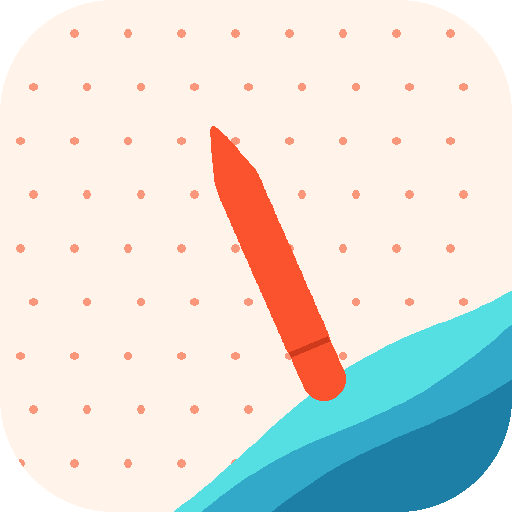
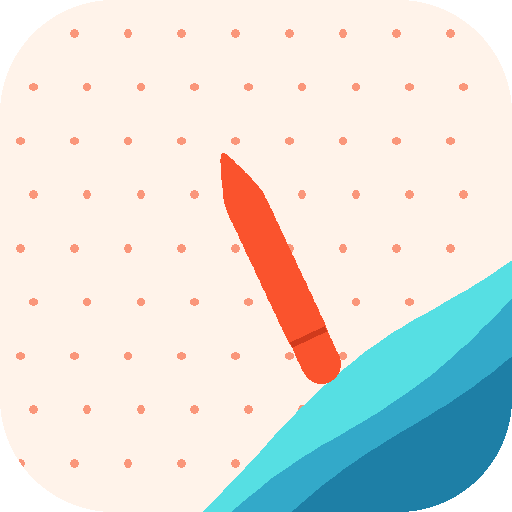
fix(build): sign every APK with a stable key
CI generated a fresh debug keystore per run, so each release had a
different signature and could not be installed over the previous one.
The key now lives in repository secrets; versionCode/versionName follow
the tag. Falls back to the runner key when secrets are absent (forks).

Icon: raise and widen the waves, slim the pen.

diff --git a/src/core/version.ts b/src/core/version.ts
@@ -1,2 +1,2 @@
 /** 与 package.json 保持一致；改版本时两处一起改。 */
-export const APP_VERSION = '0.1.3'
+export const APP_VERSION = '0.1.4'

diff --git a/tools/generate-icons.py b/tools/generate-icons.py
@@ -55,7 +55,7 @@ def draw_art(canvas: Image.Image, scale: float = 1.0, compact: bool = False) -> 
         for i in range(steps + 1):
             t = i / steps
             x = (0.20 + 0.80 * t) * w
-            base = 1.06 - 0.52 * t + offset + lift
+            base = 1.14 - 0.66 * t + offset + lift
             y = (base + amp * math.sin(t * math.pi * 2.2 + phase)) * h
             points.append((x, y))
         points.append((w, h))
@@ -63,13 +63,13 @@ def draw_art(canvas: Image.Image, scale: float = 1.0, compact: bool = False) -> 
         draw.polygon(points, fill=color)
 
     water(0.00, 0.030, 0.6, CYAN)
-    water(0.085, 0.028, 2.2, TEAL)
-    water(0.175, 0.026, 1.1, DEEP)
+    water(0.095, 0.028, 2.2, TEAL)
+    water(0.190, 0.026, 1.1, DEEP)
 
     # 荧光笔：尾巴圆钝，笔尖收成一个点
-    tail = (ox + 0.635 * sw, oy + 0.745 * sh)
-    tip = (ox + 0.415 * sw, oy + 0.245 * sh)
-    body = sw * (0.056 if compact else 0.040)
+    tail = (ox + 0.630 * sw, oy + 0.715 * sh)
+    tip = (ox + 0.435 * sw, oy + 0.300 * sh)
+    body = sw * (0.052 if compact else 0.036)
     steps = 80
     for i in range(steps + 1):
         t = i / steps

diff --git a/CHANGELOG.md b/CHANGELOG.md
@@ -5,6 +5,21 @@
 格式参考 [Keep a Changelog](https://keepachangelog.com/zh-CN/1.1.0/)，
 版本号遵循 [语义化版本](https://semver.org/lang/zh-CN/)。
 
+## [0.1.4] - 2026-10-18
+
+### Fixed
+
+- **签名不稳定导致无法覆盖安装**：之前每次 CI 都用 runner 新生成的 debug 密钥，
+  版本之间签名不同。现在改用一把固定密钥（存放在 GitHub Secrets），
+  并让 `versionCode` 跟着 tag 递增（`v0.1.4` → 104）
+
+### Changed
+
+- 图标微调：海浪抬高并加宽，笔触收细，减少画面的刺眼感
+
+> ⚠ 0.1.4 的签名和之前所有版本都不一样，装之前必须先卸载旧版。
+> 卸载会清掉本地数据，**请先在旧版里 设置 → 备份 → 导出 ZIP**，装好新版再导入。
+
 ## [0.1.3] - 2026-10-18
 
 ### Changed
